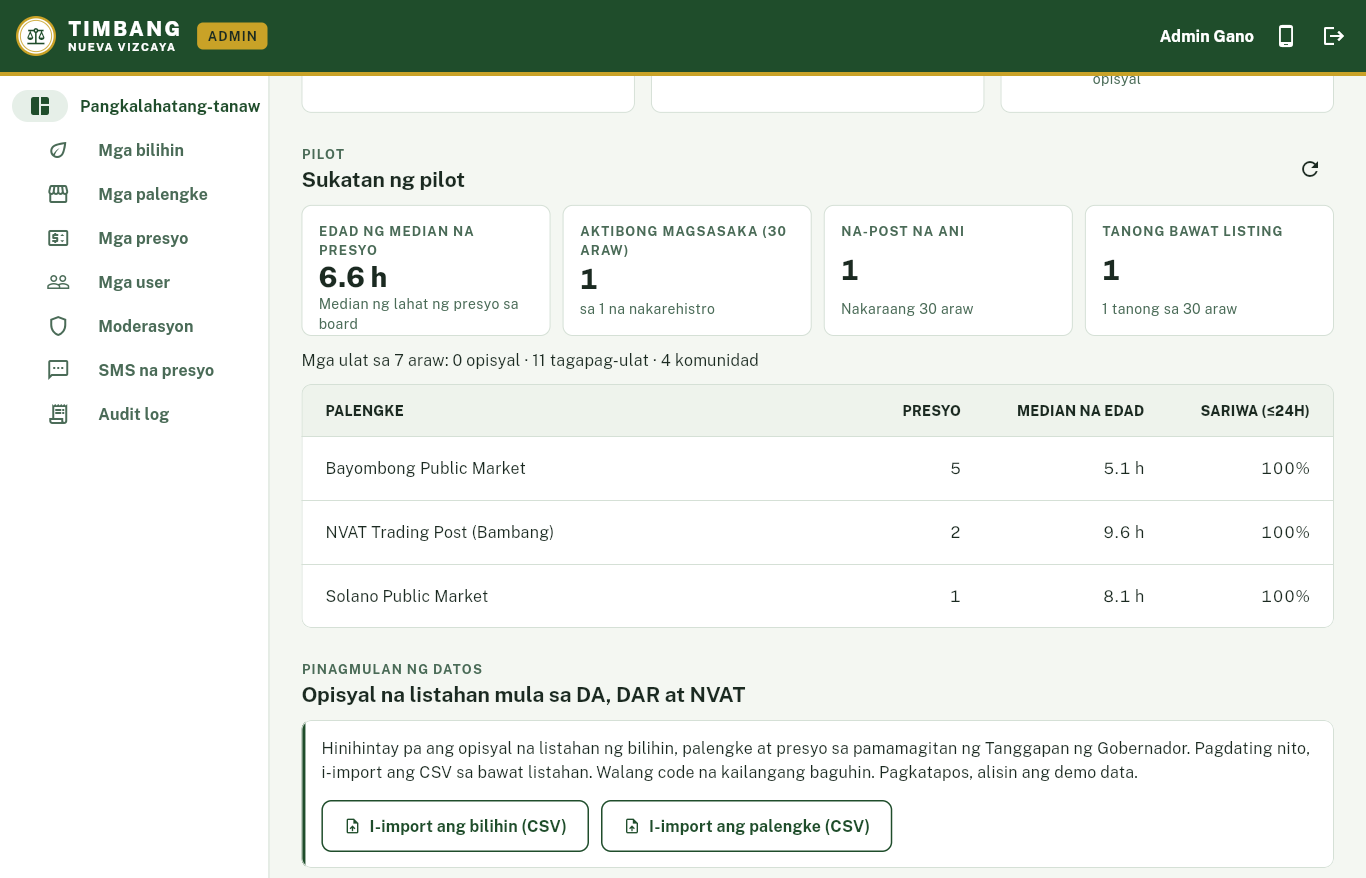
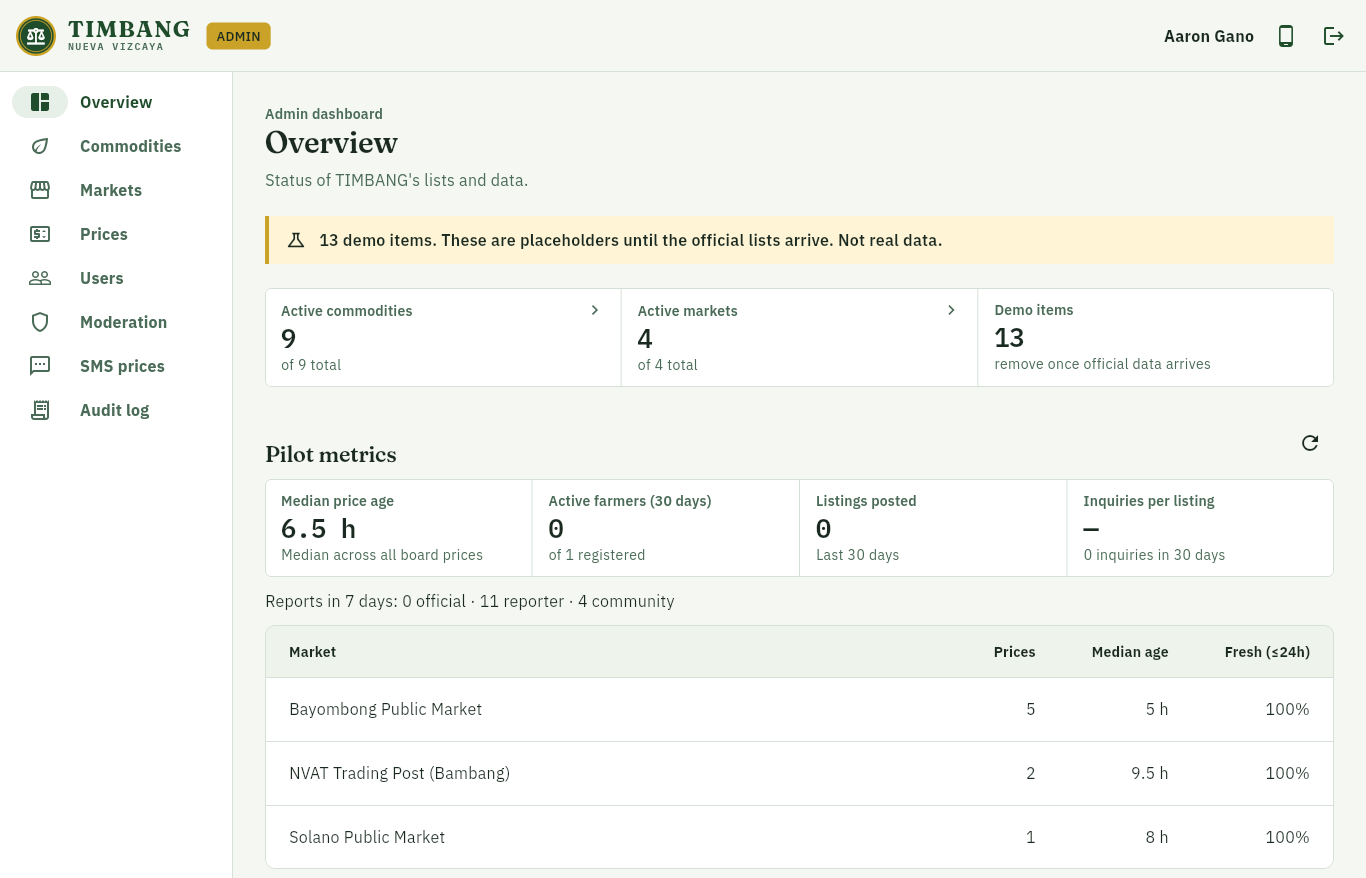
docs: README for the province view, town switcher, design, admin access and new screenshots
Claude-Session: https://claude.ai/code/session_01ULWrfRf72Z4YuSHjn9wCj1

diff --git a/README.md b/README.md
@@ -8,7 +8,7 @@
 A verified daily vegetable price board and produce marketplace for the farmers of
 **Nueva Vizcaya, Philippines**, on Android, the web, and SMS.
 
-`Flutter` · `Firebase` · `Cloud Functions (TypeScript)` · `Filipino-first`
+`Flutter` · `Firebase` · `Cloud Functions (TypeScript)` · `English and Filipino`
 
 **Status:** first build **v0.1.0**, a working prototype for a class requirement (see [Status](#status))
 
@@ -21,8 +21,13 @@ A verified daily vegetable price board and produce marketplace for the farmers o
 *Timbang* is Filipino for **"to weigh."** Before selling, a farmer weighs the price, the buyer and
 their options. TIMBANG gives them what they need to do that:
 
-- **A daily price board** per commodity and market, showing the **median price**, a trend arrow,
-  when it was last updated, and **how much the price can be trusted** (High / Medium / Low).
+- **A daily price bulletin for the whole province.** Opening the app shows every vegetable across
+  all markets in Nueva Vizcaya: the typical price, the range between markets, the change since
+  yesterday in pesos, when it was last updated, and **how much the price can be trusted**
+  (High / Medium / Low).
+- **Switch to any municipality.** The header works like the town switcher in One Vizcaya: tap
+  *Prices in · All of Nueva Vizcaya* and pick one of the 15 towns to see its own market(s). The
+  choice is remembered on the phone, and the produce listings follow it.
 - **Market comparison:** the same vegetable across nearby markets, so a farmer can see where it
   sells best.
 - **Produce listings:** farmers post what they are harvesting, and buyers contact them directly.
@@ -70,23 +75,25 @@ Reporter and admin roles are granted only by an admin.
 
 ## Screenshots
 
-**Mobile app:** price board, market comparison, a listing with the farmer's contact, and the
-farmer's inquiry inbox
+**Mobile app:** first-launch language choice, the province-wide bulletin (the default), the
+municipality switcher, and one town's bulletin
 
-![TIMBANG mobile app](docs/screenshots/app-farmer-buyer.png)
+![Province bulletin and municipality switcher](docs/screenshots/app-province-and-towns.png)
 
-**Phone login, profile setup with the privacy notice, a price report sent, and the offline board**
+**Services, market comparison for one vegetable, and an admin's Profile** (the admin dashboard
+button comes first)
 
-![Onboarding, reporting and offline mode](docs/screenshots/app-onboarding-report-offline.png)
+![Services, comparison and admin profile](docs/screenshots/app-services-compare-admin.png)
 
 **Website:** public landing page
 
 ![TIMBANG website](docs/screenshots/website-landing.png)
 
-**Admin dashboard:** pilot metrics, the market list (CSV import), and the SMS simulator
+**Admin dashboard:** overview and pilot metrics, the commodity list (Excel or CSV import), and the
+SMS simulator
 
-![Admin pilot metrics](docs/screenshots/admin-pilot-metrics.png)
-![Admin markets](docs/screenshots/admin-markets.png)
+![Admin overview and pilot metrics](docs/screenshots/admin-pilot-metrics.png)
+![Admin commodities](docs/screenshots/admin-commodities.png)
 ![Admin SMS simulator](docs/screenshots/admin-sms.png)
 
 > The screenshots use **demo data** (marked DEMO in the app). They are not real prices.
@@ -113,19 +120,49 @@ Each price on the board is computed by a Cloud Function every time a new report 
 
 The source of each price is shown as **Opisyal** (official), **Tagapag-ulat** (reporter) or **Komunidad** (community).
 
+**Province view (the default home screen).** Each vegetable is summarised across the markets that
+have a price for it today:
+
+- **Price:** the median of the markets' medians, so one market cannot pull it alone.
+- **Range:** lowest to highest market price, and how many markets reported.
+- **Confidence:** the *lowest* among those markets, so the province view never overstates trust.
+- **Change:** the same median, compared with yesterday's.
+
+Tap a vegetable to see each market separately.
+
 ## Features in this build
 
 | Area | Included |
 |---|---|
 | Accounts | Phone OTP login, farmer/buyer self sign-up, profile, RA 10173 consent, view or copy my data, delete account |
-| Prices | Daily board, market comparison, trend, confidence, source, age, stale label, offline cache |
+| Prices | Province-wide bulletin by default; municipality switcher in the header (remembered on the phone); per-market board, market comparison, change since yesterday, confidence, source, age, stale label, offline cache |
 | Reporting | Anyone can report a price; reporters count as verified; rate limits; outlier handling |
 | Listings | Post produce (quantity, price, harvest date, town, photos), browse, filter, sort, mark sold, renew, automatic 14-day expiry |
 | Inquiries | One message to the farmer, push notification, call/text buttons, inbox with unread badge |
 | Alerts | Notification when the median crosses the user's price (once per crossing) |
-| Admin | Commodities and markets (forms + CSV import), official price import, users and roles, reporter market assignment, moderation and user flags, audit log, pilot metrics, SMS simulator |
+| Admin | Works on the website and inside the mobile app (Profile → Open the admin dashboard, or the shield icon in the header). Commodities and markets (forms, Excel or CSV import), official price import (file or one price at a time), users and roles, reporter market assignment, moderation and user flags, audit log, pilot metrics, SMS simulator |
 | SMS | `PRESYO <gulay> <bayan>` query behind a swappable gateway (mock for now; Semaphore or Globe Labs later) |
 | Language | English by default; English or Filipino chosen on first launch, changeable in Profile |
+
+## Design
+
+The look is a mix of an **official printed price bulletin** and a **civic service** app:
+
+- **Bulletin layout:** each screen opens with a masthead (place, date, "as of" time) over a double
+  rule, and prices sit in full-width ruled lists grouped by category, without cards.
+- **Light header:** the header sits on the page with a thin rule, not a solid green bar. It holds
+  the seal, the municipality switcher and the profile.
+- **Trust meter:** confidence is a 3-bar meter plus the word (▮▮▮ High, ▮▮▯ Medium, ▮▯▯ Low), so it
+  never depends on color alone.
+- **Services list:** plain rows (report a price, compare markets, price alerts), each with one
+  sentence saying what it does. Farmers also get one *Post produce* button.
+- **Type:** Fraunces (headlines and wordmark), IBM Plex Sans (text) and IBM Plex Mono (prices and
+  data labels, like the readout of a weighing scale). All three include the peso sign and Filipino
+  letters.
+- **Accessible:** text contrast at least 4.5:1 (checked in tests), touch targets at least 48 dp,
+  screen-reader labels on prices, trends and trust meters.
+- **Language:** English by default. English or Filipino is chosen on first launch and can be
+  changed in Profile or with the EN/FIL button on the website.
 
 **Not part of TIMBANG** (by design): online payments or wallets, delivery and hauling, bookings,
 ratings, open chat, shopping carts, and any price setting.
@@ -135,12 +172,17 @@ ratings, open chat, shopping carts, and any price setting.
 Security is graded for CS PC 7, so it is built in from the start:
 
 - **Deny-by-default** Firestore and Storage rules, with tests for every collection (100+ rules tests).
-- **Roles** live in Firebase custom claims set only by an admin-only function, never by the app itself.
+- **Roles** live in Firebase custom claims set only by an admin-only function, never by the app
+  itself. Typing `role: admin` into a Firestore document does nothing; the first admin is set with
+  `npm run seed:admin` (see below). Reporters and admins are approved by an admin, which is what
+  the **Verified** tag means. In this prototype the first admin is verified immediately. A fuller
+  ID and endorsement check is planned for the pilot.
 - **Prices are only written by the server.** It sets each report's trust tier and rate-limits submissions.
 - Every admin action is recorded in an **audit log**.
 - **App Check**, a signed SMS webhook, phone numbers hashed and masked in logs, and no analytics.
-- **Data Privacy Act of 2012 (RA 10173):** only name, phone and town are collected; consent is
-  recorded at sign-up; users can view and delete their data.
+- **Data Privacy Act of 2012 (RA 10173):** only name, phone and town are collected. The privacy
+  notice opens as its own full screen; *I agree* only unlocks after reading to the end. Users can
+  view, copy and delete their data.
 
 See [`docs/threat-model.md`](docs/threat-model.md) (STRIDE) and
 [`docs/security-checklist.md`](docs/security-checklist.md) (OWASP MASVS).
@@ -157,6 +199,7 @@ See [`docs/threat-model.md`](docs/threat-model.md) (STRIDE) and
 | Notifications | Firebase Cloud Messaging |
 | Integrity | Firebase App Check |
 | SMS | `SmsGateway` interface (mock now; Semaphore or Globe Labs later) |
+| Fonts | Fraunces, IBM Plex Sans, IBM Plex Mono (SIL OFL), bundled so they work offline |
 | Tests and CI | flutter_test, Jest, `@firebase/rules-unit-testing`, emulator integration tests, GitHub Actions |
 
 ```
@@ -197,12 +240,22 @@ flutter run -d chrome -t lib/main_web.dart      # website + admin
 ```
 
 Debug builds connect to the local emulators automatically. Login codes are shown in the Emulator
-UI (Authentication tab); no SMS is sent. To make yourself admin, sign in once, then:
+UI (Authentication tab); no SMS is sent. To make yourself admin, sign in once, then run the command
+below, sign out and sign in again. The app then shows **Open the admin dashboard** at the top of
+Profile.
 
 ```bash
 FIREBASE_AUTH_EMULATOR_HOST=127.0.0.1:9099 FIRESTORE_EMULATOR_HOST=127.0.0.1:8080 \
   npm run seed:admin -- +639171234567
 ```
+
+**Demo logins on the real Firebase project** (no SMS cost): Firebase console → Authentication →
+Sign-in method → Phone → *Phone numbers for testing*, e.g. `+63 917 000 0001` with code `123456`.
+Remove them, or keep them private, before the pilot.
+
+**Lists and prices from a phone:** admins can add or edit commodities and markets and enter
+official prices in the app itself, or import the office's Excel (`.xlsx`) or CSV file. An empty
+list shows an *Add the list* button for admins.
 
 **Tests**
 
@@ -238,7 +291,7 @@ Firebase emulators.
 
 - **Data:** the commodity, market and price lists shown are **demo data**. The official lists
   from DA, DAR and NVAT have been requested through the Office of the Governor; when they arrive,
-  admins import them by CSV with no code changes.
+  admins import them from Excel or CSV, or type them in, with no code changes.
 - **SMS:** the gateway (Semaphore or Globe Labs) has not been chosen yet. SMS works through the
   mock gateway and the admin simulator.
 - **Pilot plan:** one public market (likely Bayombong) and one farmer group for about 4 weeks.
